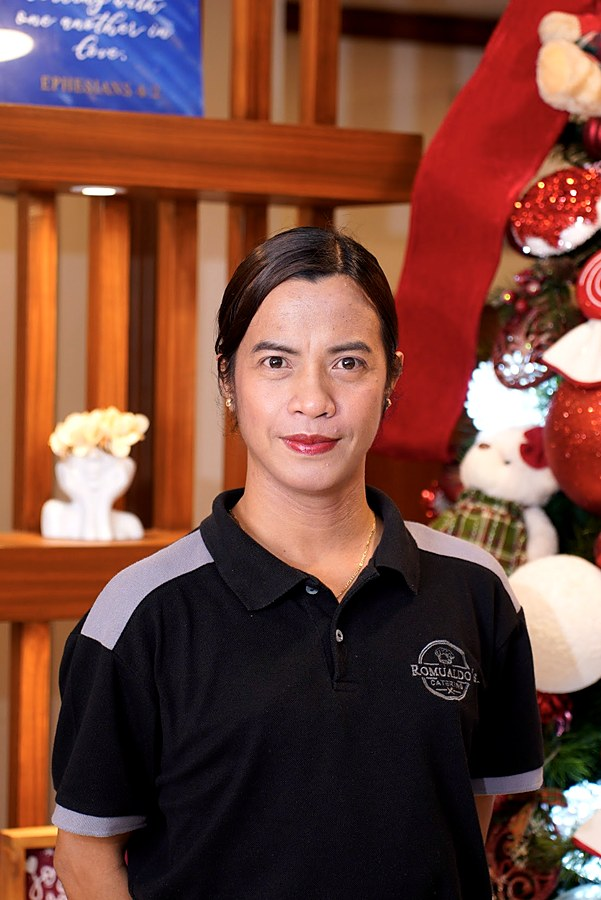
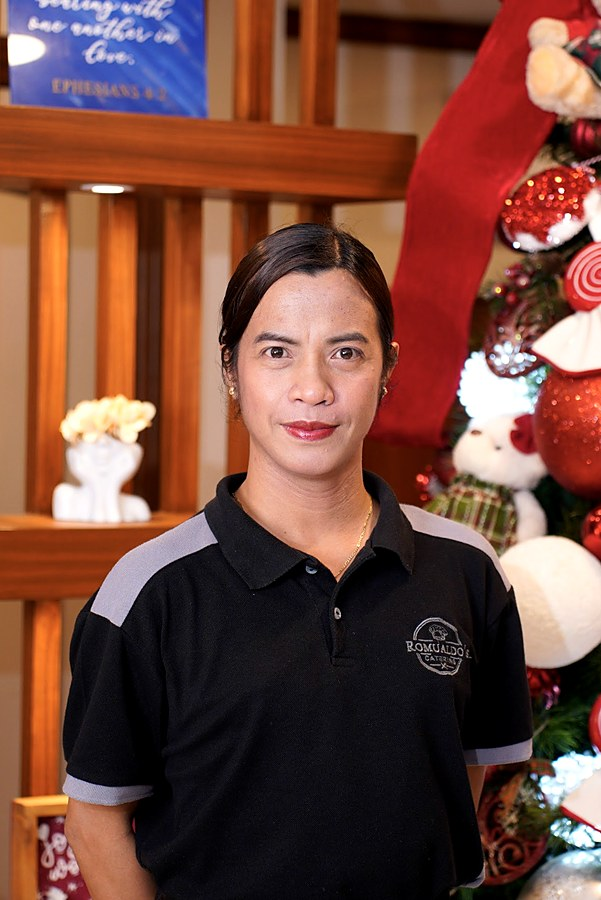
About: Chef JP / Chef Jasper / Chef Jeoff (Sous Chef) / Glendy cards; Glendy photo zoomed out
Claude-Session: https://claude.ai/code/session_01UbWzNugHk5dsTFrxjrxJxd

diff --git a/index.html b/index.html
@@ -494,7 +494,7 @@ body.nav-open .nav-burger span:nth-child(1){transform:translateY(7px) rotate(45d
 .services-band li:before{content:"✦";position:absolute;left:0;color:var(--gold)}
 .team{display:grid;grid-template-columns:1.1fr 1fr;gap:30px;align-items:start;margin-bottom:34px}
 .team p{color:var(--muted)}
-.chefs{display:grid;grid-template-columns:repeat(auto-fit,minmax(160px,1fr));gap:14px;margin-top:14px}
+.chefs{display:grid;grid-template-columns:repeat(auto-fit,minmax(200px,1fr));gap:14px;margin-top:14px}
 .chefs figure,.team-photo{margin:0;border-radius:14px;overflow:hidden;background:var(--paper);border:1px solid var(--line)}
 .chefs img{width:100%;aspect-ratio:3/4;object-fit:cover;display:block}
 .chefs figcaption{padding:10px 12px;display:flex;flex-direction:column}
@@ -1466,8 +1466,8 @@ const ABOUT_DEFAULT={
   servicesTitle:"We cater for",
   services:["Corporate events","Meetings & trainings","Institutional programs","Weddings","Birthdays & family celebrations","Festivals & community events"],
   teamKicker:"03 · Our team", teamTitle:"Our leadership",
-  team:"Chef John Philip D. Domingo, proprietor, is a former medical laboratory scientist who finished Culinary and Restaurant Management at École Hôtelière de Lausanne (EHL), Switzerland. He leads the business, client relationships and menu development.\n\nChef Jasper Patrick Domingo, head chef, is a graduate of Professional Culinary and Pastry Arts. He leads kitchen production and pastry, and curates menus tailored to each client and occasion.\n\nGlen Butron, our F&B Manager, leads our food and beverage operations.\n\nTogether, we plan each menu around the client's occasion and guests, large or small.",
-  chefs:[{name:"Chef John Philip D. Domingo",subtitle:"Proprietor",photo:P("about/chef-jp.jpg")},{name:"Chef Jasper Patrick Domingo",subtitle:"Head Chef",photo:P("about/chef-jasper.jpg")},{name:"Glen Butron",subtitle:"F&B Manager",photo:P("about/glen-butron.jpg")}],
+  team:"Chef John Philip D. Domingo, proprietor, is a former medical laboratory scientist who finished Culinary and Restaurant Management at École Hôtelière de Lausanne (EHL), Switzerland. He leads the business, client relationships and menu development.\n\nChef Jasper Patrick Domingo, head chef, is a graduate of Professional Culinary and Pastry Arts. He leads kitchen production and pastry, and curates menus tailored to each client and occasion.\n\nChef Jeoff, our sous chef, is second in command in the kitchen.\n\nGlendy, our F&B Manager, leads our food and beverage operations.\n\nTogether, we plan each menu around the client's occasion and guests, large or small.",
+  chefs:[{name:"Chef JP",subtitle:"Proprietor",photo:P("about/chef-jp.jpg")},{name:"Chef Jasper",subtitle:"Head Chef",photo:P("about/chef-jasper.jpg")},{name:"Chef Jeoff",subtitle:"Sous Chef",photo:P("about/chef-jeoff.jpg")},{name:"Glendy",subtitle:"F&B Manager",photo:P("about/glen-butron.jpg")}],
   teamPhoto:S_("team2398")||P("about/team.jpg"), teamCaption:"Our team over the years",
   customTitle:"A customized menu, just for you",
   custom:"We understand that every event is unique, which is why we offer customizable menus to suit your preferences, dietary needs, and theme. Whether you desire a traditional feast or a contemporary fusion experience, our culinary experts will work closely with you to curate a menu that exceeds expectations.",
